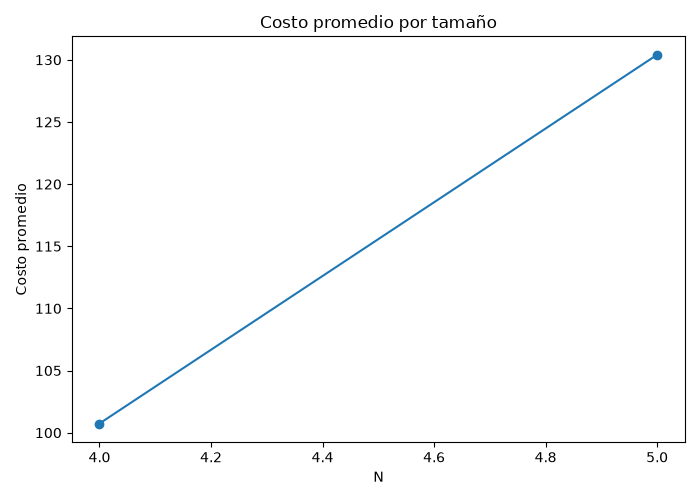
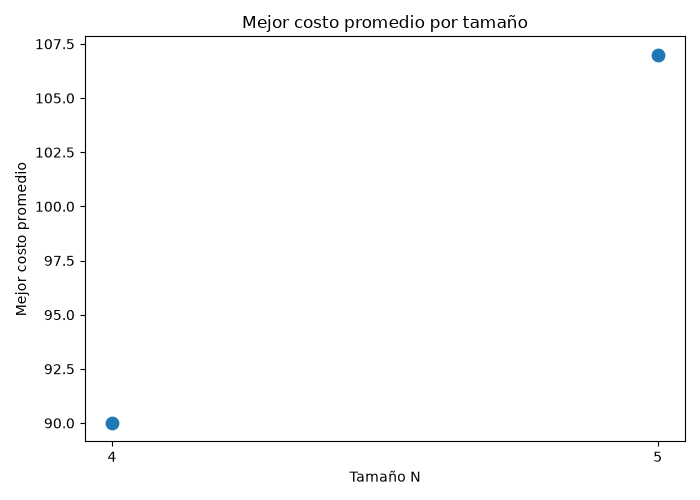
using a better view at the size graphics

diff --git a/Proyecto2/src/pruebas/graficos_metaheuristica.py b/Proyecto2/src/pruebas/graficos_metaheuristica.py
@@ -167,47 +167,70 @@ def graficar_mejor_peor(filas, carpeta_salida, archivo_filtro=None):
 
     plt.close()
 
-
 def graficar_por_tamano(filas, carpeta_salida):
     """
-    Grafica el costo promedio según el tamaño N.
+    Grafica el mejor costo promedio obtenido
+    para cada tamaño N.
     """
 
     datos = {}
 
+    # Agrupar costos por tamaño y configuración
     for fila in filas:
 
         n = fila["N"]
+        config = fila["configuracion"]
 
         if n not in datos:
-            datos[n] = []
+            datos[n] = {}
 
-        datos[n].append(fila["costoFinal"])
+        if config not in datos[n]:
+            datos[n][config] = []
+
+        datos[n][config].append(fila["costoFinal"])
 
     tamanos = []
-    costos = []
+    mejores_costos = []
 
     for n in sorted(datos.keys()):
 
+        mejor_costo = None
+
+        for config in datos[n]:
+
+            costo_promedio = promedio(datos[n][config])
+
+            if (
+                mejor_costo is None
+                or costo_promedio < mejor_costo
+            ):
+                mejor_costo = costo_promedio
+
         tamanos.append(n)
-        costos.append(promedio(datos[n]))
+        mejores_costos.append(mejor_costo)
 
     plt.figure(figsize=(7,5))
 
-    plt.plot(tamanos, costos, marker="o")
+    plt.scatter(
+        tamanos,
+        mejores_costos,
+        s=80
+    )
 
-    plt.xlabel("N")
+    plt.xticks(tamanos)
 
-    plt.ylabel("Costo promedio")
-
-    plt.title("Costo promedio por tamaño")
+    plt.xlabel("Tamaño N")
+    plt.ylabel("Mejor costo promedio")
+    plt.title("Mejor costo promedio por tamaño")
 
     plt.tight_layout()
 
-    plt.savefig(os.path.join(
-        carpeta_salida,
-        "tamano.png"
-    ))
+    plt.savefig(
+        os.path.join(
+            carpeta_salida,
+            "tamano.png"
+        )
+    )
 
     plt.close()
 
@@ -306,10 +329,10 @@ def main():
             archivo
         )
 
-        graficar_por_tamano(
-            filas,
-            carpeta_graficos
-        )
+    graficar_por_tamano(
+        filas,
+        carpeta_graficos
+    )
     mostrar_mejor_configuracion(filas)
     print("Gráficos generados correctamente.")
 
